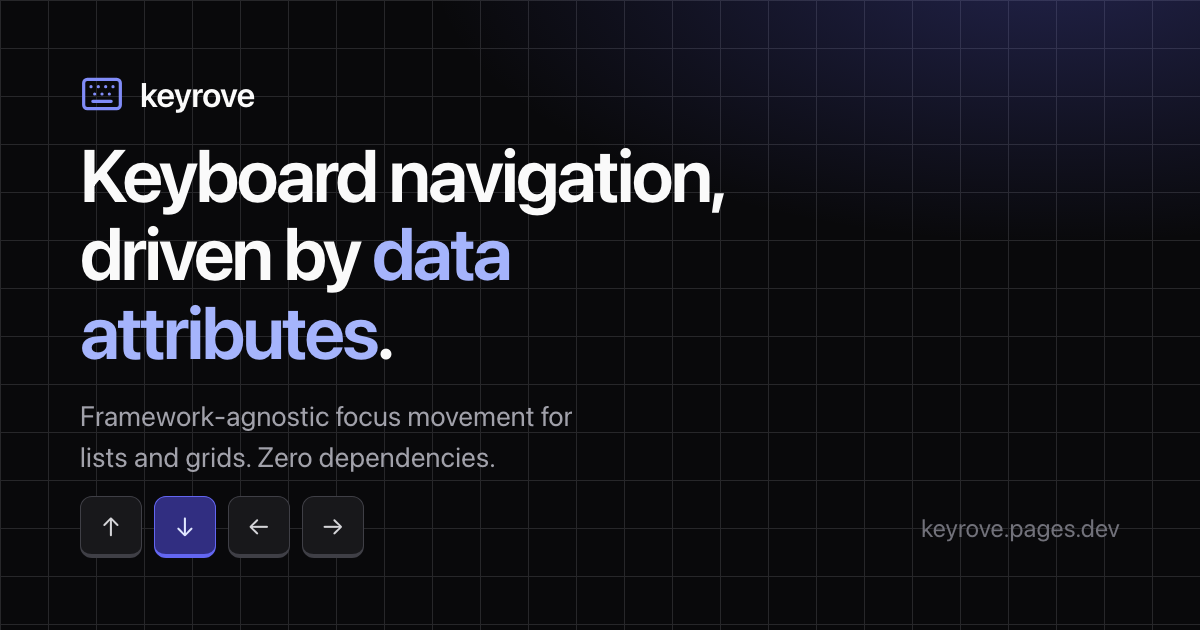
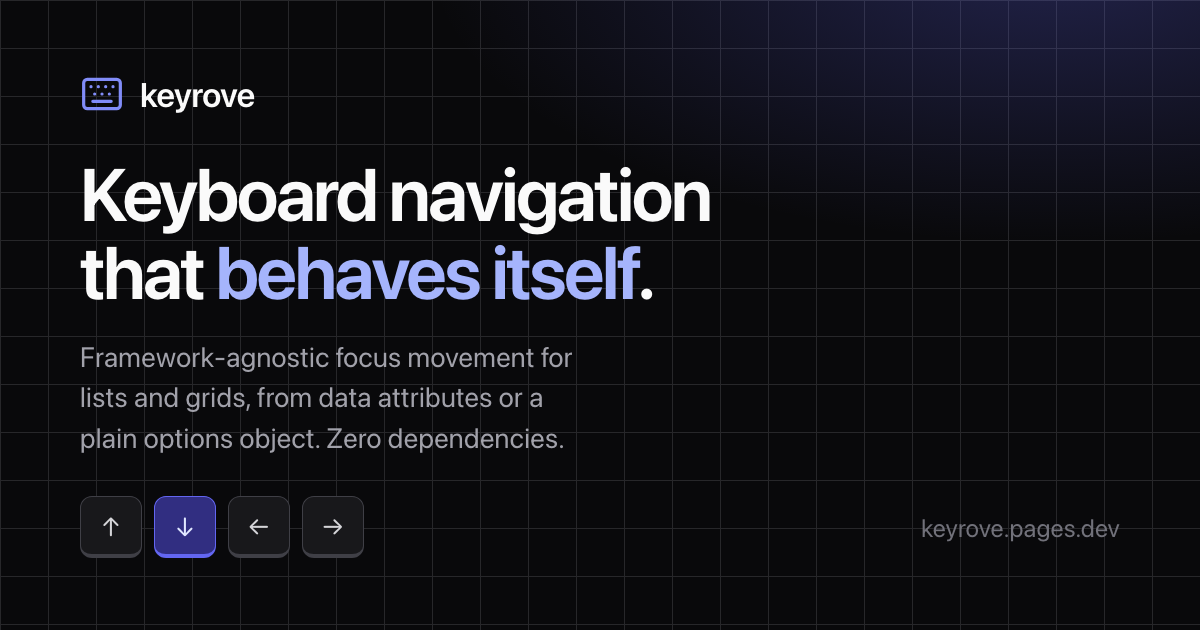
docs: actualize README and documentation on attributes and options

Changed region(s): [[0.0617, 0.2413, 0.6167, 0.754]]

diff --git a/packages/docs/build/og-card.html b/packages/docs/build/og-card.html
@@ -134,9 +134,10 @@
   keyrove
 </div>
 <div>
-  <h1>Keyboard navigation, driven by <em>data attributes</em>.</h1>
+  <h1>Keyboard navigation that <em>behaves itself</em>.</h1>
   <p>
-    Framework-agnostic focus movement for lists and grids. Zero dependencies.
+    Framework-agnostic focus movement for lists and grids, from data attributes
+    or a plain options object. Zero dependencies.
   </p>
 </div>
 <div class="foot">

diff --git a/packages/keyrove/README.md b/packages/keyrove/README.md
@@ -5,14 +5,19 @@
 [![license](https://img.shields.io/npm/l/@mixedrays/keyrove?color=4f46e5)](https://github.com/mixedrays/keyrove/blob/main/LICENSE)
 
 Framework-agnostic keyboard navigation for lists and grids, driven by `data-*`
-attributes.
+attributes or a plain options object.
 
 **[Documentation](https://keyrove.pages.dev)** ·
+[Attributes and options](https://keyrove.pages.dev/docs/attributes-and-options) ·
 [API reference](https://keyrove.pages.dev/docs/api) ·
 [Examples](https://keyrove.pages.dev/docs/examples/basic)
 
+A group — its items, its keys, its columns — is described in `data-keyrove-*`
+attributes where you write the markup, or in an options object where you don't:
+every attribute has an option of the same name, and the two mix field by field.
+
 Arrow keys are the default binding, not the whole library: the keys that move
-focus are `data-*` attributes on the root, so any
+focus are settings like any other, so any
 [`KeyboardEvent.code`](https://developer.mozilla.org/en-US/docs/Web/API/KeyboardEvent/code)
 can drive a group. And because keyrove moves real DOM focus and only calls
 `preventDefault()` on the keys it is bound to, native <kbd>Tab</kbd> /
@@ -26,14 +31,24 @@ pnpm add @mixedrays/keyrove
 
 - **Framework-agnostic:** takes DOM events and React, Vue, or Svelte synthetic
   events, with no adapter and no dependencies.
+- **Attributes or options:** every attribute has an option of the same name, so
+  a group whose markup you don't own — a component library's menu, a CMS's
+  output — is described in JavaScript instead:
+  `keyRove(e, { items: '[role="menuitem"]', loop: true })` navigates a menu
+  that carries no keyrove attributes at all. Each field falls back to its
+  attribute on its own, so the two can be mixed.
+- **Stateless:** `keyRove` is a plain function of one keydown event — no
+  instance to mount, nothing to dispose. It reads the group on every press, so
+  a list that re-renders needs no re-initialising.
 - **Configurable key bindings:** every move — next/prev, the grid's row moves,
-  Home/End and the page jumps — has a `data-keyrove-*-key` attribute taking any
-  `KeyboardEvent.code`, with exact modifier combos and platform-aware `mod`.
-- **Focus keys:** `data-keyrove-focus-key` gives an element a combo of its
-  own — `ctrl+shift+KeyE`, or just `KeyE` — that focuses it from anywhere under
-  the listener: another group, a nested root, even a text field when the combo
-  holds a modifier. It need not be an item, so a panel reached by its key stays
-  out of the arrow order.
+  Home/End and the page jumps — takes any `KeyboardEvent.code`, as a
+  `data-keyrove-*-key` attribute or under the `keys` option, with exact
+  modifier combos and platform-aware `mod`.
+- **Focus keys:** `data-keyrove-focus-key` (or the `focusKeys` option) gives an
+  element a combo of its own — `ctrl+shift+KeyE`, or just `KeyE` — that focuses
+  it from anywhere under the listener: another group, a nested root, even a
+  text field when the combo holds a modifier. It need not be an item, so a panel
+  reached by its key stays out of the arrow order.
 - **Lists and grids:** arrows, <kbd>Home</kbd>/<kbd>End</kbd> and
   <kbd>PageUp</kbd>/<kbd>PageDown</kbd> out of the box; `data-keyrove-cols`
   folds the items into rows — Up/Down move a whole row, Left/Right move a cell
@@ -56,12 +71,8 @@ pnpm add @mixedrays/keyrove
   textareas, selects, and `contenteditable` regions — while inputs those keys
   do nothing on, like a checkbox or a button, keep navigating.
 - **Typeahead:** `createTypeahead()` adds case-insensitive type-to-focus,
-  matching `data-keyrove-typeahead` or the item's own text.
-- **Markup you don't own:** every attribute has an option of the same name, so
-  a group can be described in JavaScript instead — `keyRove(e, { items:
-'[role="menuitem"]', loop: true })` navigates a component library's menu that
-  carries no keyrove attributes at all. Each field falls back to its attribute
-  on its own, so the two can be mixed.
+  matching a `label` of your own, `data-keyrove-typeahead`, or the item's own
+  text — and takes the same options object as `keyRove`.
 
 ## Usage
 
@@ -82,6 +93,18 @@ import { keyRove } from '@mixedrays/keyrove';
 document.querySelector('#menu').addEventListener('keydown', (e) => keyRove(e));
 ```
 
+Where the markup is not yours to change, name the same settings in the call
+instead. This is the same list, with nothing on its items but `tabindex="0"`:
+
+```ts
+document
+  .querySelector('#menu')
+  .addEventListener('keydown', (e) => keyRove(e, { items: 'li' }));
+```
+
+Each setting falls back to its attribute on its own, so the two mix freely —
+see [Attributes and options](#attributes-and-options).
+
 `keyRove` accepts anything shaped like a keydown event, so React, Vue and
 Svelte synthetic events work without an adapter:
 
@@ -98,16 +121,25 @@ Svelte synthetic events work without an adapter:
 ## Keys
 
 `ArrowDown` and `ArrowUp` move forward and back by default. Rebind either on the
-root — `KeyJ`/`KeyK`, `KeyW`/`KeyS`, `ArrowRight`/`ArrowLeft` for a toolbar:
+root, or in the call — `KeyJ`/`KeyK`, `KeyW`/`KeyS`, `ArrowRight`/`ArrowLeft`
+for a toolbar:
 
 ```html
 <div data-keyrove-next-key="KeyJ" data-keyrove-prev-key="KeyK">…</div>
 ```
 
+```ts
+keyRove(e, { keys: { next: 'KeyJ', prev: 'KeyK' } });
+```
+
+Every `data-keyrove-*-key` attribute below is a field of `keys` named after its
+move — `data-keyrove-next-row-key` is `keys.nextRow` — and `keys` is read move
+by move, so a move it leaves out keeps its attribute and then its default.
+
 For the toolbar case there is a shorthand that also respects the text
-direction: `data-keyrove-orientation="horizontal"` maps the default keys to
-`ArrowRight`/`ArrowLeft`, flipped under RTL. An explicit
-`data-keyrove-next-key`/`data-keyrove-prev-key` still wins over it.
+direction: `data-keyrove-orientation="horizontal"`, or
+`orientation: 'horizontal'`, maps the default keys to `ArrowRight`/`ArrowLeft`,
+flipped under RTL. An explicit next/prev binding still wins over it.
 
 A binding is a combo: zero or more of `mod+` / `ctrl+` / `alt+` / `shift+` /
 `meta+` (any order, any case) followed by a
@@ -192,13 +224,26 @@ A focus key sits ahead of the root's bindings and the defaults, so it wins any
 collision; two elements naming one combo resolve to the first in DOM order; a
 skipped or disabled element's key is inert. The move reports `'focus'`.
 
+In JavaScript, `focusKeys` maps each combo to an element, or to a selector
+resolved within the listener's reach. A map replaces the attribute scan rather
+than adding to it, so one declaration answers for the whole listener:
+
+```ts
+panels.addEventListener('keydown', (e) =>
+  keyRove(e, {
+    focusKeys: { 'ctrl+shift+KeyE': '#editor', 'ctrl+shift+KeyB': '#browser' },
+  }),
+);
+```
+
 ## Tab still works
 
 keyrove moves focus with `element.focus()` and never touches <kbd>Tab</kbd>, so
 sequential focus navigation is unaffected. Items with `tabindex="0"` stay
 ordinary tab stops that arrows _also_ reach. Opt into
-`data-keyrove-roving-tabindex` when a group should instead be a single tab stop
-that <kbd>Tab</kbd> moves past rather than through.
+`data-keyrove-roving-tabindex`, or `rovingTabindex: true`, when a group should
+instead be a single tab stop that <kbd>Tab</kbd> moves past rather than
+through.
 
 ## Typeahead
 
@@ -209,15 +254,16 @@ whose label starts with what was typed, case-insensitively.
 ```ts
 import { keyRove, createTypeahead } from '@mixedrays/keyrove';
 
-const typeahead = createTypeahead(); // { resetMs?, matchMode?, onMove? }
+const typeahead = createTypeahead(); // { resetMs?, matchMode?, label?, onMove?, … }
 
 list.addEventListener('keydown', (e) => keyRove(e) || typeahead(e));
 ```
 
 The buffer is state, which `keyRove` itself never holds, so create one handler
 per listener and chain it after `keyRove`: bound keys win, and a `KeyJ` binding
-keeps navigating instead of entering the buffer. The label is the item's
-`data-keyrove-typeahead` attribute, falling back to its trimmed text. Matching
+keeps navigating instead of entering the buffer. The label is what a `label`
+option returns, falling back to the item's `data-keyrove-typeahead` attribute
+and then its trimmed text. Matching
 reads `e.key` — the typed character — unlike key bindings, which stay on the
 physical `e.code`. Typing inside editable elements is never captured, modified
 presses (Ctrl/Alt/Meta) are left to their shortcuts, and a space only counts
@@ -226,6 +272,18 @@ once a match is underway. The handler returns
 and its `onMove` fires after a real move exactly as `keyRove`'s does, so both
 handlers can feed the same follow-focus logic.
 
+`createTypeahead` also takes the settings that bear on finding an item —
+`items`, `root`, `skip` and `rovingTabindex` — under the same names and with the
+same fallbacks, so a group described in JavaScript hands one object to both
+handlers, and they cannot disagree about what an item is:
+
+```ts
+const config = { items: '[role="menuitem"]', loop: true, rovingTabindex: true };
+const typeahead = createTypeahead(config);
+
+menu.addEventListener('keydown', (e) => keyRove(e, config) || typeahead(e));
+```
+
 Repeated characters normally extend the prefix: `S`, then `S`, looks for an
 item starting with `ss`. For menus that cycle through same-letter items, pass
 `{ matchMode: 'cycle' }`: a single character moves to the next item after the
@@ -233,30 +291,54 @@ focused one that starts with it, wrapping, so repeated `S` presses step through
 the `S` items at any pace. A different character typed before the buffer
 resets still refines the prefix.
 
-## Attributes
+## Attributes and options
 
-| Attribute                      | On   | Default     | Meaning                                                                                |
-| ------------------------------ | ---- | ----------- | -------------------------------------------------------------------------------------- |
-| `data-keyrove-item`            | item | —           | Marks an element as navigable.                                                         |
-| `data-keyrove-skip`            | item | —           | Passed over when moving; stays in the DOM order.                                       |
-| `data-keyrove-roving-tabindex` | item | —           | Moves the `tabindex="0"` tab stop with focus.                                          |
-| `data-keyrove-root`            | root | —           | Marks the navigation root explicitly, instead of using the listener's element.         |
-| `data-keyrove-cols`            | root | `1`         | Column count; above 1 the group navigates as a grid.                                   |
-| `data-keyrove-page-length`     | root | `10`        | Items per page jump — whole rows in a grid.                                            |
-| `data-keyrove-next-key`        | root | axis arrow  | Combo for the next item — the next cell, in a grid. E.g. `KeyJ` or `ctrl+ArrowRight`.  |
-| `data-keyrove-prev-key`        | root | axis arrow  | Combo for the previous item.                                                           |
-| `data-keyrove-next-row-key`    | root | `ArrowDown` | Combo for the next row, same column. Grids only.                                       |
-| `data-keyrove-prev-row-key`    | root | `ArrowUp`   | Combo for the previous row. Grids only.                                                |
-| `data-keyrove-home-key`        | root | `Home`      | Combo for the first item — the grid's first cell, `ctrl+Home` there by default.        |
-| `data-keyrove-end-key`         | root | `End`       | Combo for the last item — the grid's last cell, `ctrl+End` there by default.           |
-| `data-keyrove-home-row-key`    | root | `Home`      | Combo for the focused row's first cell. Grids only.                                    |
-| `data-keyrove-end-row-key`     | root | `End`       | Combo for the focused row's last cell. Grids only.                                     |
-| `data-keyrove-page-up-key`     | root | `PageUp`    | Combo for the page jump back.                                                          |
-| `data-keyrove-page-down-key`   | root | `PageDown`  | Combo for the page jump forward.                                                       |
-| `data-keyrove-focus-key`       | any  | —           | Combo focusing this element, from anywhere under the listener, e.g. `ctrl+shift+KeyE`. |
-| `data-keyrove-loop`            | root | —           | Next/prev wrap past the ends of a list. Grids never wrap.                              |
-| `data-keyrove-orientation`     | root | —           | `horizontal` maps a list's default keys to `ArrowRight`/`ArrowLeft`, RTL-aware.        |
-| `data-keyrove-typeahead`       | item | text        | Label for type-to-focus, when the item's own text is not it.                           |
+Every setting can be written in two places: as an attribute in the markup, or
+as an option in the call. Both are read on every keypress, one field at a time,
+options first — a field the options object leaves out falls back to its
+attribute, and then to its default. A call with no options reads exactly the
+markup, and mixing the two is ordinary rather than a halfway state:
+
+```ts
+keyRove(e); // everything from the markup
+keyRove(e, { loop: true }); // items from the markup, looping from here
+keyRove(e, { items: '[role="menuitem"]', loop: true }); // nothing from the markup
+```
+
+Reach for attributes where you write the HTML: the group is described where it
+is built, so a list becomes a grid by gaining an attribute, and one delegated
+listener serves any number of groups that describe themselves. Reach for
+options where you don't — a component library's menu, a CMS's output — and for
+settings you compute: an object built at the call site is as live as an
+attribute, so `keyRove(e, { cols: columnsNow() })` re-folds the grid between
+presses.
+
+| Attribute                      | Option           | On   | Default     | Meaning                                                                                                                           |
+| ------------------------------ | ---------------- | ---- | ----------- | --------------------------------------------------------------------------------------------------------------------------------- |
+| `data-keyrove-item`            | `items`          | item | —           | Marks an element as navigable. As an option: a selector run inside the root, or `(root) => Element[]`.                            |
+| `data-keyrove-skip`            | `skip`           | item | —           | Passed over when moving; stays in the DOM order. As an option: a selector or `(element) => boolean`.                              |
+| `data-keyrove-roving-tabindex` | `rovingTabindex` | item | —           | Moves the `tabindex="0"` tab stop with focus. As an option: one boolean for the whole group.                                      |
+| `data-keyrove-root`            | `root`           | root | —           | Marks the navigation root explicitly, instead of using the listener's element. As an option: the selector a root answers to.      |
+| `data-keyrove-cols`            | `cols`           | root | `1`         | Column count; above 1 the group navigates as a grid.                                                                              |
+| `data-keyrove-page-length`     | `pageLength`     | root | `10`        | Items per page jump — whole rows in a grid.                                                                                       |
+| `data-keyrove-next-key`        | `keys.next`      | root | axis arrow  | Combo for the next item — the next cell, in a grid. E.g. `KeyJ` or `ctrl+ArrowRight`.                                             |
+| `data-keyrove-prev-key`        | `keys.prev`      | root | axis arrow  | Combo for the previous item.                                                                                                      |
+| `data-keyrove-next-row-key`    | `keys.nextRow`   | root | `ArrowDown` | Combo for the next row, same column. Grids only.                                                                                  |
+| `data-keyrove-prev-row-key`    | `keys.prevRow`   | root | `ArrowUp`   | Combo for the previous row. Grids only.                                                                                           |
+| `data-keyrove-home-key`        | `keys.home`      | root | `Home`      | Combo for the first item — the grid's first cell, `ctrl+Home` there by default.                                                   |
+| `data-keyrove-end-key`         | `keys.end`       | root | `End`       | Combo for the last item — the grid's last cell, `ctrl+End` there by default.                                                      |
+| `data-keyrove-home-row-key`    | `keys.homeRow`   | root | `Home`      | Combo for the focused row's first cell. Grids only.                                                                               |
+| `data-keyrove-end-row-key`     | `keys.endRow`    | root | `End`       | Combo for the focused row's last cell. Grids only.                                                                                |
+| `data-keyrove-page-up-key`     | `keys.pageUp`    | root | `PageUp`    | Combo for the page jump back.                                                                                                     |
+| `data-keyrove-page-down-key`   | `keys.pageDown`  | root | `PageDown`  | Combo for the page jump forward.                                                                                                  |
+| `data-keyrove-focus-key`       | `focusKeys`      | any  | —           | Combo focusing this element, from anywhere under the listener, e.g. `ctrl+shift+KeyE`. As an option: combo → element or selector. |
+| `data-keyrove-loop`            | `loop`           | root | —           | Next/prev wrap past the ends of a list. Grids never wrap.                                                                         |
+| `data-keyrove-orientation`     | `orientation`    | root | —           | `horizontal` maps a list's default keys to `ArrowRight`/`ArrowLeft`, RTL-aware.                                                   |
+| `data-keyrove-typeahead`       | `label`          | item | text        | Label for type-to-focus, when the item's own text is not it. As an option: `(item) => string`.                                    |
+
+`keyRove` takes every option but `label`. `createTypeahead` takes `items`,
+`root`, `skip`, `rovingTabindex` and `label` — the settings that bear on
+finding an item.
 
 The boolean attributes — `data-keyrove-item`, `data-keyrove-skip`,
 `data-keyrove-roving-tabindex`, `data-keyrove-root`, and `data-keyrove-loop` —
@@ -268,7 +350,7 @@ vertical list, the reading-direction arrows in a horizontal list or a grid.
 Every attribute name is also exported as a constant (`KEYROVE_ATTR_ITEM`,
 `KEYROVE_ATTR_COLS`, `KEYROVE_ATTR_NEXT_ROW_KEY`, `KEYROVE_ATTR_LOOP`, …).
 
-## Options and return value
+## onMove and return value
 
 ```ts
 const result = keyRove(e, {
@@ -276,36 +358,17 @@ const result = keyRove(e, {
 });
 ```
 
-Beside `onMove`, the options object takes the group's settings themselves —
-`items`, `root`, `cols`, `loop`, `orientation`, `pageLength`, `keys`,
-`focusKeys`, `skip` and `rovingTabindex` — each named after the attribute it
-stands for and each falling back to that attribute on its own. So a group can
-be described in markup, in JavaScript, or in any mixture:
-
-```ts
-keyRove(e); // everything from the markup
-keyRove(e, { loop: true }); // items from the markup, looping from here
-keyRove(e, { items: '[role="menuitem"]', loop: true }); // nothing from the markup
-```
-
-`items` takes a selector run inside the root, or `(root) => Element[]`; `skip`
-a selector or a test of your own; `keys` the combo per move, read move by move,
-so `{ keys: { next: 'KeyJ' } }` leaves the others to their attributes and
-defaults. Options are read on every keypress, so an object built at the call
-site is as live as an attribute is. `createTypeahead` takes the settings it
-needs — `items`, `root`, `skip`, `rovingTabindex`, plus a `label` of its own —
-under the same names, so one object configures both handlers.
-
-`onMove` fires after focus has moved, and only when it actually moved: a
-consumed key with nowhere to go — the end of a list, the edge of a grid —
-fires nothing. `action` names the move: `'next' | 'prev' | 'home' | 'end' |
-'pageUp' | 'pageDown'`, the grid-only `'nextRow' | 'prevRow' | 'homeRow' |
-'endRow'`, and `'focus'` for a focus key. `from` is the item focus left
+`onMove` sits in the same object as the settings. It fires after focus has
+moved, and only when it actually moved: a consumed key with nowhere to go — the
+end of a list, the edge of a grid — fires nothing. `action` names the move:
+`'next' | 'prev' | 'home' | 'end' | 'pageUp' | 'pageDown'`, the grid-only
+`'nextRow' | 'prevRow' | 'homeRow' | 'endRow'`, and `'focus'` for a focus key. `from` is the item focus left
 (`null` when the group was entered from outside, or for a focus key on an
 element that is not an item) and `to` the element it landed on.
 
-`keyRove` returns `null` when it left the key untouched, and `{ action, from,
-to }` when it consumed it — with `to: null` for a consumed no-op at an edge. A
+`keyRove` returns `null` when it left the key untouched, and
+`{ action, from, to }` when it consumed it — with `to: null` for a consumed
+no-op at an edge. A
 non-null result means the key is claimed, so handlers chain with `||`:
 
 ```ts

diff --git a/README.md b/README.md
@@ -5,8 +5,8 @@
 [![license](https://img.shields.io/npm/l/@mixedrays/keyrove?color=4f46e5)](https://github.com/mixedrays/keyrove/blob/main/LICENSE)
 
 Framework-agnostic keyboard navigation for lists and grids, driven by `data-*`
-attributes. Any key can move focus — arrows are only the default — and native
-<kbd>Tab</kbd> navigation keeps working.
+attributes or a plain options object. Any key can move focus — arrows are only
+the default — and native <kbd>Tab</kbd> navigation keeps working.
 
 ## Getting started
 
@@ -31,6 +31,16 @@ import { keyRove } from '@mixedrays/keyrove';
 document.querySelector('#menu').addEventListener('keydown', (e) => keyRove(e));
 ```
 
+Where the markup is not yours to change — a component library's menu, a CMS's
+output — every attribute has an option of the same name, so the same list can
+be described in the call instead:
+
+```ts
+document
+  .querySelector('#menu')
+  .addEventListener('keydown', (e) => keyRove(e, { items: 'li' }));
+```
+
 `keyRove` takes anything shaped like a keydown event, so React, Vue and Svelte
 synthetic events work without an adapter. The
 [installation guide](https://keyrove.pages.dev/docs/installation) shows the
@@ -40,6 +50,8 @@ wiring in each framework.
 
 - [Introduction](https://keyrove.pages.dev/docs/introduction) — how it works,
   which keys move focus, and what it leaves to you.
+- [Attributes and options](https://keyrove.pages.dev/docs/attributes-and-options)
+  — the two places a group can be described, and which to reach for.
 - [Examples](https://keyrove.pages.dev/docs/examples/basic) — live demos of
   lists, grids, custom keys, roving tabindex, nested roots and more.
 - [API reference](https://keyrove.pages.dev/docs/api) — every attribute,
